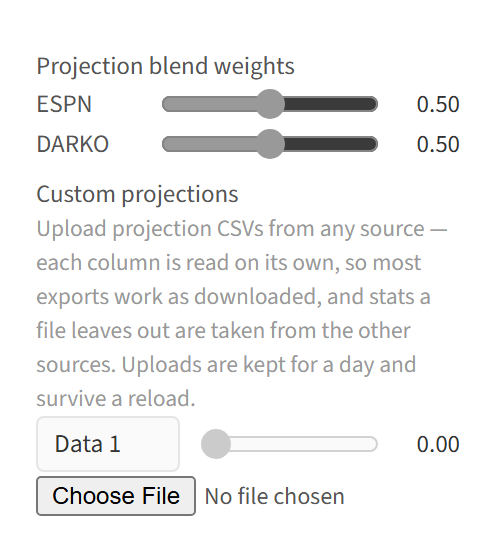
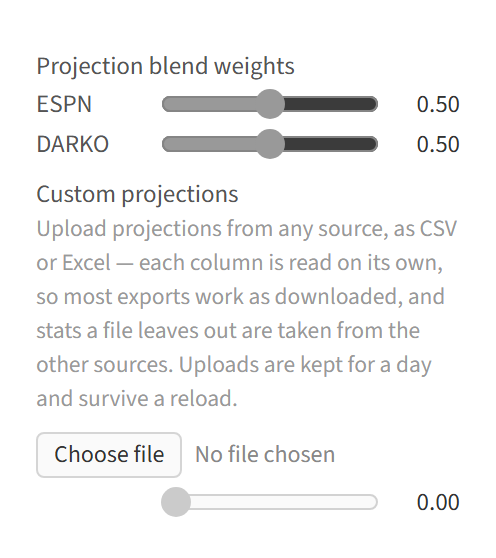
Name a custom projection source by its file, not by a text box
Uploaded sources carried an editable title, defaulting to "Data 1", because the slot had no
other way to say what was in it. The browser draws the file input's own text, and it cannot be
read back or set from script -- a page that could would be able to fake a chosen file -- so a
restored upload could never name the file behind it, however much else was remembered.

So the app renders the name itself: the input is visually hidden (still focusable, still what
the label opens), a label acts as the button, and the filename is ours to display and persist
alongside the data_id, weight and status line. That makes the title box redundant -- a second
name for something already named -- and it goes.

The slot is reorganized around the file: chooser and filename on one line, status beneath it,
weight slider under that, indented by the width of the ESPN/DARKO label column so all four
slider tracks line up. The status line gets its own row rather than competing with the filename
for a narrow sidebar.

Stored preferences drop the title field; an older entry that still carries one is ignored, so
existing browsers restore their uploads unchanged. The three e2e assertions that drove the
title box now assert on the displayed filename -- empty slots say "No file chosen", a fresh
upload shows its name, and it comes back under that name after a reload. Suite green at 62.

The projections docs image is regenerated; it was still showing the old field.

diff --git a/frontend/parameter_collection/player_stats.ts b/frontend/parameter_collection/player_stats.ts
@@ -9,15 +9,24 @@ import { pref, savePref } from '../preferences.js'
 // ─── Module state ──────────────────────────────────────────────────────────────
 
 // One row per custom projection slot. The upload's data_id is its identity everywhere
-// (blend-weight key, session requests); the title is presentation-only, like team labels
-// on the draft board.
+// (blend-weight key, session requests); the file's own name is what identifies the slot
+// to the reader.
 interface CustomUploadRow {
     dataId: string | null
-    titleInput: HTMLInputElement
+    fileName: string | null
     slider: HTMLInputElement
     valueDisplay: HTMLSpanElement
     statusSpan: HTMLSpanElement
     uploadInput: HTMLInputElement
+    fileNameLabel: HTMLSpanElement
+}
+
+/** Shows a chosen file's name, or the browser's own wording when a slot is empty. The full
+ *  name rides in the tooltip, since a long one is ellipsized in the narrow sidebar. */
+function setFileNameLabel(label: HTMLSpanElement, fileName: string | null): void {
+    label.textContent = fileName ?? 'No file chosen'
+    label.title = fileName ?? ''
+    label.classList.toggle('sidebar-file-name-empty', fileName === null)
 }
 
 // What is remembered across reloads for a filled slot. Only the id is load-bearing — the
@@ -27,24 +36,24 @@ interface CustomUploadRow {
 // slot with a visible message, which is the same recovery a mid-session expiry gets.
 interface StoredCustomUpload {
     dataId: string
-    title: string
     weight: number
     statusText: string
+    fileName: string | null
 }
 
 const CUSTOM_UPLOADS_PREF = 'custom_uploads'
 const MAX_CUSTOM_UPLOADS = 5
 let customUploadRows: CustomUploadRow[] = []
 
-/** Persists every filled slot (id, title, weight, status line) so uploads survive a reload. */
+/** Persists every filled slot (id, filename, weight, status line) so uploads survive a reload. */
 function saveCustomUploads(): void {
     savePref(CUSTOM_UPLOADS_PREF, customUploadRows
         .filter(row => row.dataId !== null)
         .map(row => ({
             dataId:     row.dataId as string,
-            title:      row.titleInput.value,
             weight:     parseFloat(row.slider.value),
             statusText: row.statusSpan.textContent ?? '',
+            fileName:   row.fileName,
         })))
 }
 
@@ -74,6 +83,9 @@ export function markUploadedSourcesExpired(): boolean {
         row.slider.value = '0'
         row.valueDisplay.textContent = '0.00'
         row.statusSpan.textContent = 'Upload expired — please re-upload the file.'
+        // The slot holds nothing now; showing the old filename would suggest otherwise.
+        row.fileName = null
+        setFileNameLabel(row.fileNameLabel, null)
         // Clear the input so re-selecting the same file fires a fresh change event.
         row.uploadInput.value = ''
     }
@@ -198,9 +210,9 @@ export function renderPlayerStats(container: HTMLElement): void {
 }
 
 /** Renders the projection source weights: ESPN and DARKO sliders, then the custom
- *  projections section — up to five uploadable sources, each with an editable title,
- *  a weight slider locked until its upload succeeds, and a file chooser. A fresh empty
- *  row appears after each successful upload. */
+ *  projections section — up to five uploadable sources, each a file chooser plus a weight
+ *  slider locked until its upload succeeds. A fresh empty row appears after each successful
+ *  upload. */
 function renderBlendWeights(container: HTMLElement): void {
 
     const weightLabel = document.createElement('div')
@@ -278,36 +290,16 @@ function makeWeightSlider(
     return { slider, valueDisplay }
 }
 
-/** Appends one custom-projection row: [editable title | weight slider] + [file chooser | status].
- *  The slider stays locked at zero until this row's upload succeeds. `storedUpload` restores a
- *  slot remembered from a previous visit, already filled and unlocked. */
+/** Appends one custom-projection slot: [file chooser | filename] over [weight slider], with
+ *  the upload's status line beneath. The file's own name identifies the source, so the slider
+ *  needs no label of its own. The slider stays locked at zero until this slot's upload
+ *  succeeds. `storedUpload` restores a slot remembered from a previous visit, already filled
+ *  and unlocked. */
 function appendCustomUploadRow(
     customRowsContainer: HTMLElement
     , storedUpload?: StoredCustomUpload
 ): void {
     const rowNumber = customUploadRows.length + 1
-
-    const sliderRow = document.createElement('div')
-    sliderRow.className = 'sidebar-slider-row'
-
-    // Editable display title, like team labels on the draft board: presentation only —
-    // the upload's identity is its data_id. Title events stay out of the section's
-    // change/input listeners so typing a name never triggers a session patch.
-    const titleInput = document.createElement('input')
-    titleInput.type = 'text'
-    titleInput.id = `ps-custom-title-${rowNumber}`
-    titleInput.className = 'sidebar-input custom-projection-title'
-    titleInput.value = storedUpload?.title ?? `Data ${rowNumber}`
-    titleInput.addEventListener('input', event => { event.stopPropagation(); saveCustomUploads() })
-    titleInput.addEventListener('change', event => event.stopPropagation())
-    sliderRow.append(titleInput)
-
-    const { slider, valueDisplay } = makeWeightSlider(`ps-w-custom-${rowNumber}`, storedUpload?.weight ?? 0)
-    // A weight for a source with no file behind it is meaningless — locked until upload succeeds.
-    slider.disabled = storedUpload === undefined
-    slider.addEventListener('input', saveCustomUploads)
-    sliderRow.append(slider, valueDisplay)
-    customRowsContainer.append(sliderRow)
 
     const uploadRow = document.createElement('div')
     uploadRow.className = 'sidebar-upload-row'
@@ -320,7 +312,22 @@ function appendCustomUploadRow(
     // this only widens the picker.
     uploadInput.accept = '.csv,.xlsx'
     uploadInput.className = 'sidebar-file-input'
-    uploadRow.append(uploadInput)
+
+    // The file input's own text ("No file chosen", or the filename) is drawn by the browser
+    // and cannot be set from script — a page that could would be able to fake a chosen file.
+    // So a restored slot could never show the file behind it, however much else we remembered.
+    // The input is visually hidden (still focusable, still the thing the label opens) and the
+    // filename is rendered here instead, which makes it ours to persist like the rest.
+    const fileButton = document.createElement('label')
+    fileButton.className = 'sidebar-file-button'
+    fileButton.htmlFor = uploadInput.id
+    fileButton.textContent = 'Choose file'
+
+    const fileNameLabel = document.createElement('span')
+    fileNameLabel.className = 'sidebar-file-name'
+    setFileNameLabel(fileNameLabel, storedUpload?.fileName ?? null)
+
+    uploadRow.append(fileButton, uploadInput, fileNameLabel)
 
     const statusSpan = document.createElement('span')
     statusSpan.className = 'sidebar-caption'
@@ -328,9 +335,20 @@ function appendCustomUploadRow(
     uploadRow.append(statusSpan)
     customRowsContainer.append(uploadRow)
 
+    const sliderRow = document.createElement('div')
+    sliderRow.className = 'sidebar-slider-row custom-upload-weight-row'
+
+    const { slider, valueDisplay } = makeWeightSlider(`ps-w-custom-${rowNumber}`, storedUpload?.weight ?? 0)
+    // A weight for a source with no file behind it is meaningless — locked until upload succeeds.
+    slider.disabled = storedUpload === undefined
+    slider.addEventListener('input', saveCustomUploads)
+    sliderRow.append(slider, valueDisplay)
+    customRowsContainer.append(sliderRow)
+
     const row: CustomUploadRow = {
         dataId: storedUpload?.dataId ?? null,
-        titleInput, slider, valueDisplay, statusSpan, uploadInput,
+        fileName: storedUpload?.fileName ?? null,
+        slider, valueDisplay, statusSpan, uploadInput, fileNameLabel,
     }
     customUploadRows.push(row)
 
@@ -349,6 +367,8 @@ function appendCustomUploadRow(
                 ? ` (no ${resp.missing_stats.join('/')})` : ''
             statusSpan.textContent = `✓ ${resp.n_players} players loaded${missingNote}`
             slider.disabled = false
+            row.fileName = file.name
+            setFileNameLabel(fileNameLabel, file.name)
             saveCustomUploads()
             // Open the next slot once this one is filled (first upload into this row only).
             if (!hadUploadAlready && customUploadRows.length < MAX_CUSTOM_UPLOADS) {

diff --git a/frontend/styles/styles.css b/frontend/styles/styles.css
@@ -728,20 +728,19 @@ html { font-size: clamp(16px, 0.93vw, 20px); }
     gap: 8px;
 }
 
-/* Editable display title of a custom projection source, sitting where the fixed
-   source label (ESPN / DARKO) does on the Snowflake rows. */
-.custom-projection-title {
-    width: 4.5rem;
-    box-sizing: border-box;
-    flex-shrink: 0;
-}
-
 .sidebar-slider-row label {
     color: light-dark(#555555, darkgrey);
     font-size: 0.78rem;
     font-family: "Source Sans 3";
     width: 52px;
     flex-shrink: 0;
+}
+
+/* A custom source is named by the filename on the line above rather than by a label in the
+   row, so its slider is indented by the width of that label column (52px) plus the row gap —
+   otherwise every custom track would start left of the ESPN/DARKO tracks above it. */
+.custom-upload-weight-row {
+    padding-left: 60px;
 }
 
 .sidebar-slider-row input[type="range"] {
@@ -761,12 +760,75 @@ html { font-size: clamp(16px, 0.93vw, 20px); }
     flex-shrink: 0;
 }
 
+/* The file input is driven through its <label> rather than shown directly: the browser draws
+   its own "No file chosen" text, which cannot be set from script, so a restored upload could
+   never name the file behind it. Hidden this way rather than with display:none, the input
+   stays focusable and keyboard-operable, and the label opens the picker as before. */
 .sidebar-file-input {
+    position: absolute;
+    width: 1px;
+    height: 1px;
+    padding: 0;
+    margin: -1px;
+    overflow: hidden;
+    clip-path: inset(50%);
+    white-space: nowrap;
+}
+
+/* A custom-projection slot leads with this row, so its top margin is what separates one
+   slot from the next. The status line wraps onto its own line (flex-basis below) — it is
+   a full sentence, and squeezing it beside the filename would ellipsize both. */
+.sidebar-upload-row {
+    position: relative;
+    display: flex;
+    flex-wrap: wrap;
+    align-items: center;
+    gap: 2px 6px;
+    margin-top: 8px;
+}
+
+.sidebar-upload-row .sidebar-caption {
+    flex-basis: 100%;
+}
+
+.sidebar-file-button {
     font-size: 0.75rem;
-    color: light-dark(#555555, darkgrey);
     font-family: "Source Sans 3";
-    margin-top: 2px;
-    width: 100%;
+    color: light-dark(#333333, lightgrey);
+    background-color: light-dark(#fafafa, #181923);
+    border: 1px solid light-dark(#d5d5d5, #3d3d55);
+    border-radius: 4px;
+    padding: 2px 8px;
+    cursor: pointer;
+    flex-shrink: 0;
+}
+
+.sidebar-file-button:hover {
+    border-color: light-dark(#999999, #6677aa);
+}
+
+/* The input is off-screen, so its focus ring would be invisible — surface it on the label. */
+.sidebar-upload-row:focus-within .sidebar-file-button {
+    outline: 2px solid light-dark(#5577cc, #6677aa);
+    outline-offset: 1px;
+}
+
+/* Takes the rest of the line beside the button: the filename is what names the source now,
+   so it gets the room rather than a fixed column. */
+.sidebar-file-name {
+    flex: 1;
+    font-size: 0.75rem;
+    font-family: "Source Sans 3";
+    color: light-dark(#333333, lightgrey);
+    min-width: 0;
+    overflow: hidden;
+    text-overflow: ellipsis;
+    white-space: nowrap;
+}
+
+/* Matches the muted tone the browser uses for its own empty-state wording. */
+.sidebar-file-name-empty {
+    color: light-dark(#888888, #777788);
 }
 
 /* ─── Compact parameter grid (2-column, for player stat / algo params) ──── */
